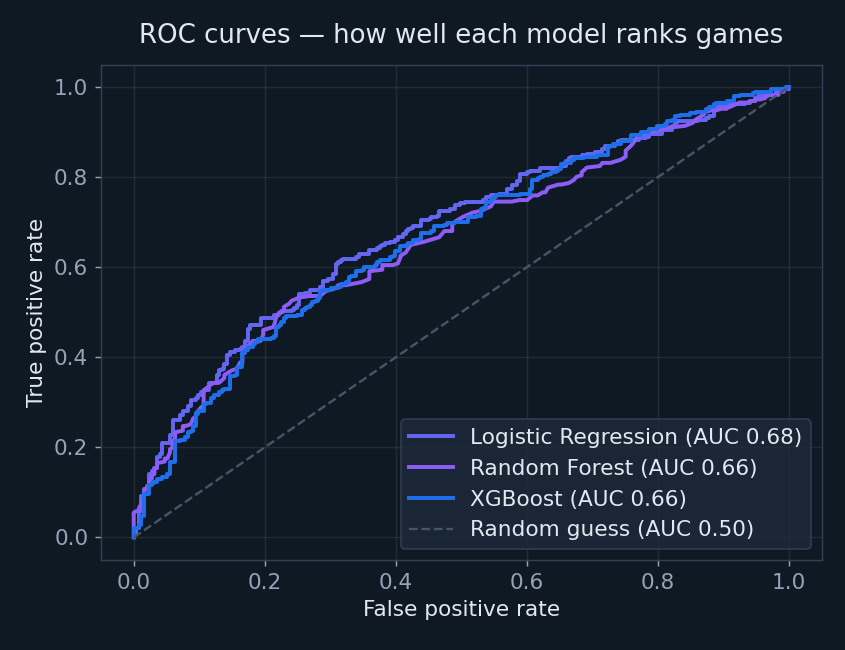
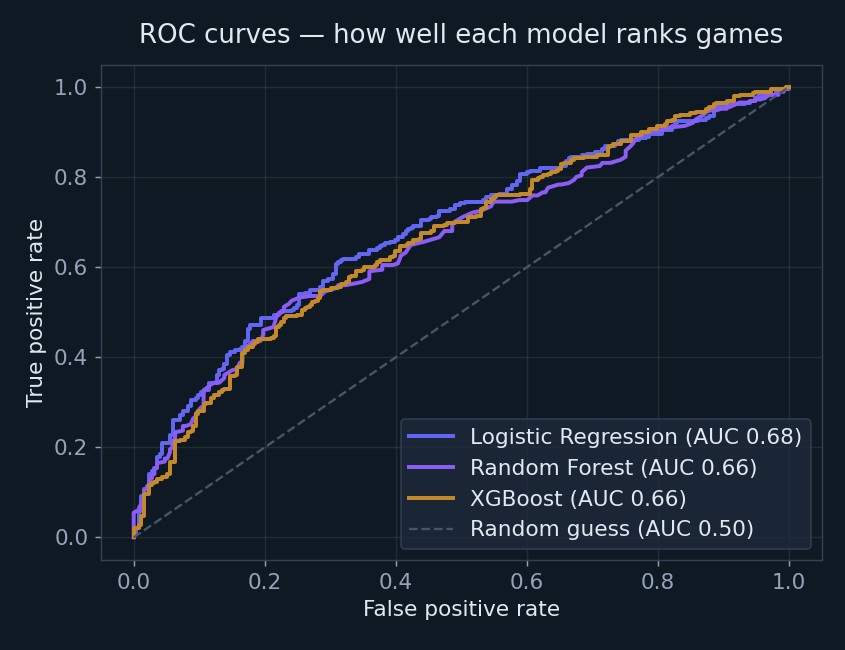
update viz color scheme to amber and clean up make_viz docstring

diff --git a/app/static/styles.css b/app/static/styles.css
@@ -2,7 +2,8 @@
   --ink: #0f1923;
   --paper: #f4f1ea;
   --line: #d8d2c4;
-  --home: #1f6feb;
+  --home: #1f6feb;   /* overridden per-team in JS */
+  --accent: #c4892a; /* warm amber — used for editorial highlights */
   --away: #c8472f;
   --muted: #6b6256;
   --green: #1a7f4b;
@@ -51,7 +52,7 @@ body {
   position: absolute;
   inset: 0;
   background:
-    radial-gradient(ellipse 90% 60% at 50% 0%, rgba(31,111,235,0.18) 0%, transparent 60%),
+    radial-gradient(ellipse 90% 60% at 50% 0%, rgba(196,137,42,0.14) 0%, transparent 60%),
     linear-gradient(180deg, #0a1020 0%, #070b14 45%, #03060c 100%);
 }
 
@@ -66,8 +67,8 @@ body {
   opacity: 0.5;
   animation: lightPulse 3.5s ease-in-out infinite;
 }
-.glow-left  { left: -12%;  background: radial-gradient(circle, rgba(120,170,255,0.55), transparent 65%); }
-.glow-right { right: -12%; background: radial-gradient(circle, rgba(120,170,255,0.55), transparent 65%); animation-delay: 1.6s; }
+.glow-left  { left: -12%;  background: radial-gradient(circle, rgba(220,160,50,0.45), transparent 65%); }
+.glow-right { right: -12%; background: radial-gradient(circle, rgba(220,160,50,0.45), transparent 65%); animation-delay: 1.6s; }
 
 @keyframes lightPulse {
   0%, 100% { opacity: 0.35; }
@@ -152,9 +153,9 @@ body {
   font-size: 0.72rem;
   letter-spacing: 0.16em;
   text-transform: uppercase;
-  color: #6ea8ff;
+  color: var(--accent);
   margin-bottom: 0.5rem;
-  text-shadow: 0 0 12px rgba(110,168,255,0.5);
+  text-shadow: 0 0 12px rgba(196,137,42,0.4);
 }
 
 .pick-header h1 {
@@ -224,15 +225,15 @@ body {
   font-size: 1.1rem;
   font-weight: 700;
   padding: 0.78rem 2.4rem;
-  background: var(--home);
+  background: var(--accent);
   color: #fff;
   border: none;
   border-radius: 6px;
   cursor: pointer;
-  box-shadow: 0 6px 24px rgba(31,111,235,0.45);
+  box-shadow: 0 6px 24px rgba(196,137,42,0.4);
   transition: transform 150ms, box-shadow 150ms;
 }
-#load-btn:hover { transform: translateY(-1px); box-shadow: 0 10px 30px rgba(31,111,235,0.6); }
+#load-btn:hover { transform: translateY(-1px); box-shadow: 0 10px 30px rgba(196,137,42,0.55); }
 .error { color: #ff8a73; font-weight: 600; font-size: 0.95rem; }
 
 /* respect reduced motion */
@@ -501,7 +502,7 @@ ul.players .stat { color: var(--muted); font-variant-numeric: tabular-nums; }
   font-size: 0.72rem;
   letter-spacing: 0.18em;
   text-transform: uppercase;
-  color: #6ea8ff;
+  color: var(--accent);
   display: block;
   margin-bottom: 0.6rem;
 }
@@ -560,7 +561,7 @@ ul.players .stat { color: var(--muted); font-variant-numeric: tabular-nums; }
 .why-step-num {
   font-family: "Fira Code", monospace;
   font-size: 0.8rem;
-  color: #6ea8ff;
+  color: var(--accent);
   letter-spacing: 0.05em;
 }
 .why-step h4 { font-size: 1.05rem; font-weight: 700; color: #f1f5f9; margin: 0.35rem 0 0.5rem; }
@@ -578,7 +579,7 @@ ul.players .stat { color: var(--muted); font-variant-numeric: tabular-nums; }
   text-align: center;
 }
 .why-split-stat > div { display: flex; flex-direction: column; gap: 0.3rem; }
-.why-stat-num { font-family: "Fira Code", monospace; font-size: 2rem; font-weight: 700; color: #6ea8ff; }
+.why-stat-num { font-family: "Fira Code", monospace; font-size: 2rem; font-weight: 700; color: var(--accent); }
 .why-stat-label { font-size: 0.8rem; color: #64748b; max-width: 20ch; }
 .why-stat-divider { width: 1px; height: 56px; background: rgba(255,255,255,0.12); }
 

diff --git a/src/make_viz.py b/src/make_viz.py
@@ -1,11 +1,9 @@
-"""Generate real ML visualizations from the trained models for the web app.
+"""Generate ML visualizations from trained models for the web app.
 
-Outputs (styled dark to match the app's 'how it works' panel):
-  app/static/viz/roc_curves.png       - ROC curves for all 3 models (no-spread)
-  app/static/viz/confusion_matrix.png - XGBoost confusion matrix on the test set
-  app/static/viz/shap_beeswarm.png    - SHAP beeswarm summary for XGBoost
-
-These are genuine model outputs, not hand-drawn charts.
+Outputs go to app/static/viz/:
+  roc_curves.png       - ROC curves for all 3 models (no-spread)
+  confusion_matrix.png - XGBoost confusion matrix on the test set
+  shap_beeswarm.png    - SHAP beeswarm summary for XGBoost
 """
 
 import json
@@ -44,7 +42,7 @@ def roc_curves():
     fig, ax = plt.subplots(figsize=(6.5, 5))
     colors = {"Logistic Regression": "#6366f1",
               "Random Forest": "#8b5cf6",
-              "XGBoost": "#1f6feb"}
+              "XGBoost": "#c4892a"}
 
     # load saved xgboost + retrain lr/rf inline for clean probability curves
     from sklearn.ensemble import RandomForestClassifier